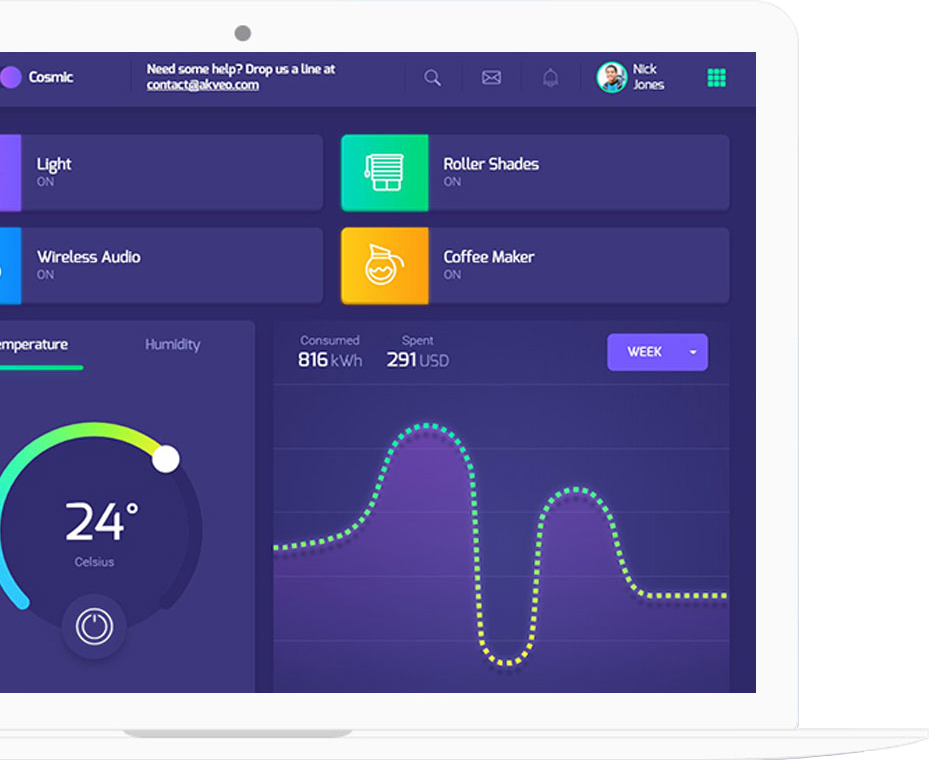
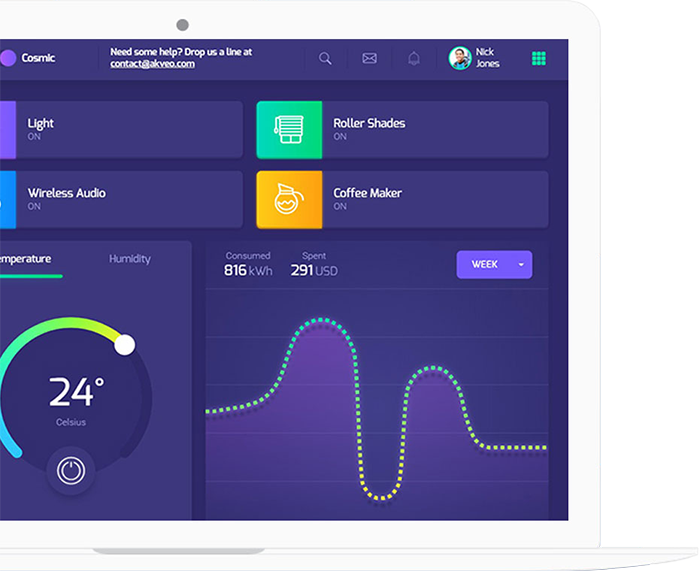
jQuary

diff --git a/css/jquery-ui.min.css b/css/jquery-ui.min.css
@@ -1,0 +1,7 @@
+/*! jQuery UI - v1.12.1 - 2019-08-04
+* http://jqueryui.com
+* Includes: draggable.css, core.css, resizable.css, selectable.css, sortable.css, accordion.css, autocomplete.css, menu.css, button.css, controlgroup.css, checkboxradio.css, datepicker.css, dialog.css, progressbar.css, selectmenu.css, slider.css, spinner.css, tabs.css, tooltip.css, theme.css
+* To view and modify this theme, visit http://jqueryui.com/themeroller/?scope=&folderName=base&cornerRadiusShadow=8px&offsetLeftShadow=0px&offsetTopShadow=0px&thicknessShadow=5px&opacityShadow=30&bgImgOpacityShadow=0&bgTextureShadow=flat&bgColorShadow=666666&opacityOverlay=30&bgImgOpacityOverlay=0&bgTextureOverlay=flat&bgColorOverlay=aaaaaa&iconColorError=cc0000&fcError=5f3f3f&borderColorError=f1a899&bgTextureError=flat&bgColorError=fddfdf&iconColorHighlight=777620&fcHighlight=777620&borderColorHighlight=dad55e&bgTextureHighlight=flat&bgColorHighlight=fffa90&iconColorActive=ffffff&fcActive=ffffff&borderColorActive=003eff&bgTextureActive=flat&bgColorActive=007fff&iconColorHover=555555&fcHover=2b2b2b&borderColorHover=cccccc&bgTextureHover=flat&bgColorHover=ededed&iconColorDefault=777777&fcDefault=454545&borderColorDefault=c5c5c5&bgTextureDefault=flat&bgColorDefault=f6f6f6&iconColorContent=444444&fcContent=333333&borderColorContent=dddddd&bgTextureContent=flat&bgColorContent=ffffff&iconColorHeader=444444&fcHeader=333333&borderColorHeader=dddddd&bgTextureHeader=flat&bgColorHeader=e9e9e9&cornerRadius=3px&fwDefault=normal&fsDefault=1em&ffDefault=Arial%2CHelvetica%2Csans-serif
+* Copyright jQuery Foundation and other contributors; Licensed MIT */
+
[1 lines of base64/hex data omitted]

diff --git a/css/style.css b/css/style.css
@@ -40,7 +40,6 @@ h1 {
 }
 .page-stat .title-h2 {
     max-width: 580px;
-
 }
 .page-screen .title-h2 {
     font-size: 40px;
@@ -94,6 +93,9 @@ h1 {
     letter-spacing: 2px; 
     color: #6e7ea9;
 }
+.nav>li:last-child {
+    padding-right: 0;
+}
 a .nav-item {
     color: #6e7ea9;
     letter-spacing: 2px; 
@@ -102,11 +104,24 @@ a .nav-item {
     display: block;
     background-image: url(../img/header-screen.png);
     background-repeat: no-repeat;
-    width: 895px;
-    height: 740px;
+    width: 700px;
+    height: 587px;
     position: absolute;
     right: 0;
     top: 189px;
+}
+.btn-menu {
+    border: none;
+    background-color: transparent;
+    display: none;
+}
+.btn-menu:focus {
+    outline: none;
+}
+.btn-menu svg {
+    width: 35px;
+    height: 35px;
+    fill: #192b59;   
 }
 .btn-primary{
     background-color: #1085e4;
@@ -324,8 +339,8 @@ a .nav-item {
 }
 .software-pic {
    display: block;
-   width: 931px;
-   height: 760px;
+   width: 700px;
+   height: 571px;
    background-image: url(../img/tablet.png);
    background-size: 100% 100%;
    background-repeat: no-repeat;
@@ -336,9 +351,10 @@ a .nav-item {
 .page-software-flex {
     display: flex;
     justify-content: flex-end;
+    margin-right: 5px;
 }
 .page-software-flex>div {
-    flex-basis: 55%;
+    flex-basis: 40%;
 }
 .settings-icon{
     background-image: url(../img/icon-forma.png);
@@ -893,9 +909,12 @@ socail-link svg,
     overflow: hidden;
     padding: 110px 0 156px 0;
     background-image: url(../img/bg3.png);
+    background-size: cover;
+    background-repeat: no-repeat;
 }
 .page-app {
     padding: 69px 0 82px 0;
+    width: 1110px;
 }
 .page-app .wrap {
     position: relative;
@@ -949,12 +968,24 @@ socail-link svg,
     background-color: #192b59;
     padding: 5px 0 4px 0;
 }
-
+.social-facebook  {
+    display: block;
+    width: 10px;
+    height: 10px;
+}
 /*MEDIA*/
 
 @media (max-width: 1200px) {
     .screen-img { 
         max-width: 500px;
+    }
+}
+@media (max-width: 1090px){
+    .nav {
+        display: none;
+    }
+    .btn-menu {
+        display: block;
     }
 }
 @media (max-width: 1050px) {

diff --git a/index.html b/index.html
@@ -34,6 +34,7 @@
                 <li><a href="" class="nav-item"></a>Team</li>
                 <li><a href=""></a><a href="" class="btn-primary btn-free">Free trial</a></li>
             </ul>
+            <button class="btn-menu" type="button"><svg xmlns="http://www.w3.org/2000/svg" viewBox="0 0 512 512"><path d="M491.318 235.318H20.682C9.26 235.318 0 244.577 0 256s9.26 20.682 20.682 20.682h470.636c11.423 0 20.682-9.259 20.682-20.682 0-11.422-9.259-20.682-20.682-20.682zM491.318 78.439H20.682C9.26 78.439 0 87.699 0 99.121c0 11.422 9.26 20.682 20.682 20.682h470.636c11.423 0 20.682-9.26 20.682-20.682 0-11.422-9.259-20.682-20.682-20.682zM491.318 392.197H20.682C9.26 392.197 0 401.456 0 412.879s9.26 20.682 20.682 20.682h470.636c11.423 0 20.682-9.259 20.682-20.682s-9.259-20.682-20.682-20.682z"/></svg></button>
         </div>
         <div class="wrap">
             <h1>Best Software Landingpage</h1>
@@ -347,5 +348,22 @@
             </ul>
         </div>
     </div>
+    <script src="https://code.jquery.com/jquery-3.4.1.min.js" integrity="sha256-CSXorXvZcTkaix6Yvo6HppcZGetbYMGWSFlBw8HfCJo=" crossorigin="anonymous"></script>
+    <script>
+        $(document).ready(function(){
+          $(".btn-ricardo").click(function(){
+            $(".btn-ricardo").hide();
+            $(".social-ricardo").fadeIn();
+          });
+          $(".btn-alberto").click(function(){
+            $(".btn-alberto").hide();
+            $(".social-alberto").fadeIn();
+          });
+          $(".btn-thomas").click(function(){
+            $(".btn-thomas").hide();
+            $(".social-thomas").fadeIn();
+          });
+        });
+    </script>
 </body>
 </html>
